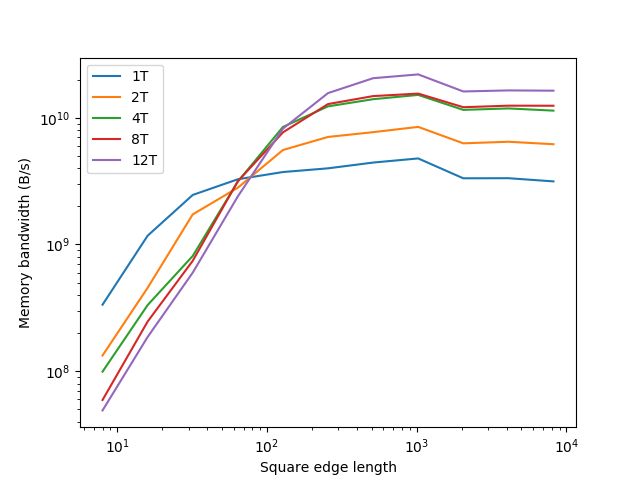
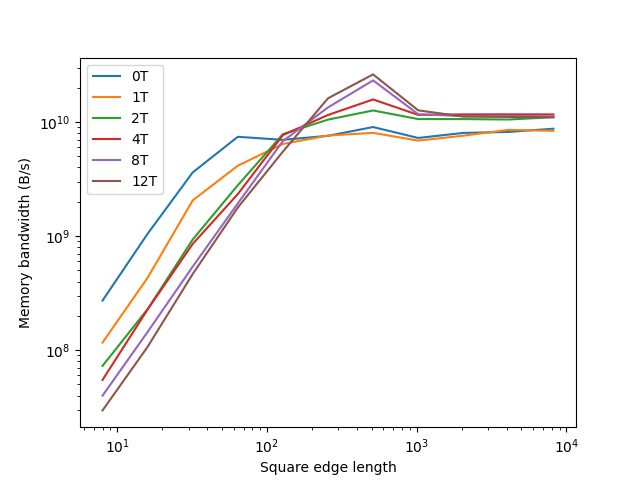
Support also checking the single thread performance

diff --git a/deqn/src/ExplicitSchemeSingleThread.C b/deqn/src/ExplicitSchemeSingleThread.C
@@ -1,0 +1,148 @@
+#include "ExplicitSchemeSingleThread.h"
+
+#include <iostream>
+#include <omp.h>
+
+#define POLY2(i, j, imin, jmin, ni) (((i) - (imin)) + (((j)-(jmin)) * (ni)))
+
+ExplicitSchemeSingleThread::ExplicitSchemeSingleThread(const InputFile* input, Mesh* m) :
+    mesh(m)
+{
+    int nx = mesh->getNx()[0];
+    int ny = mesh->getNx()[1];
+}
+
+void ExplicitSchemeSingleThread::doAdvance(const double dt)
+{
+    double start = omp_get_wtime();
+    diffuse(dt);
+    double end = omp_get_wtime();
+    printf("diffuse took time %f microseconds\n", (end - start) * 1e6);
+
+    start = omp_get_wtime();
+    reset();
+    end = omp_get_wtime();
+    printf("reset took time %f microseconds\n", (end - start) * 1e6);
+
+    start = omp_get_wtime();
+    updateBoundaries();
+    end = omp_get_wtime();
+    printf("updateBoundaries took time %f microseconds\n", (end - start) * 1e6);
+}
+
+void ExplicitSchemeSingleThread::updateBoundaries()
+{
+    for (int i = 0; i < 4; i++) {
+        reflectBoundaries(i);
+    }
+}
+
+void ExplicitSchemeSingleThread::init()
+{
+    updateBoundaries();
+}
+
+void ExplicitSchemeSingleThread::reset()
+{
+    double* u0 = mesh->getU0();
+    double* u1 = mesh->getU1();
+    int x_min = mesh->getMin()[0];
+    int x_max = mesh->getMax()[0];
+    int y_min = mesh->getMin()[1]; 
+    int y_max = mesh->getMax()[1]; 
+
+    int nx = mesh->getNx()[0]+2;
+
+    for(int k = y_min-1; k <= y_max+1; k++) {
+        for(int j = x_min-1; j <=  x_max+1; j++) {
+            int i = POLY2(j,k,x_min-1,y_min-1,nx);
+            u0[i] = u1[i];
+        }
+    }
+}
+
+void ExplicitSchemeSingleThread::diffuse(double dt)
+{
+    double* u0 = mesh->getU0();
+    double* u1 = mesh->getU1();
+    int x_min = mesh->getMin()[0];
+    int x_max = mesh->getMax()[0];
+    int y_min = mesh->getMin()[1]; 
+    int y_max = mesh->getMax()[1]; 
+    double dx = mesh->getDx()[0];
+    double dy = mesh->getDx()[1];
+
+    int nx = mesh->getNx()[0]+2;
+
+    double rx = dt/(dx*dx);
+    double ry = dt/(dy*dy);
+
+    for(int k=y_min; k <= y_max; k++) {
+        for(int j=x_min; j <= x_max; j++) {
+
+            int n1 = POLY2(j,k,x_min-1,y_min-1,nx);
+            int n2 = POLY2(j-1,k,x_min-1,y_min-1,nx);
+            int n3 = POLY2(j+1,k,x_min-1,y_min-1,nx);
+            int n4 = POLY2(j,k-1,x_min-1,y_min-1,nx);
+            int n5 = POLY2(j,k+1,x_min-1,y_min-1,nx);
+
+            u1[n1] = (1.0-2.0*rx-2.0*ry)*u0[n1] + rx*u0[n2] + rx*u0[n3]
+                + ry*u0[n4] + ry*u0[n5];
+        }
+    }
+}
+
+void ExplicitSchemeSingleThread::reflectBoundaries(int boundary_id)
+{
+    double* u0 = mesh->getU0();
+    int x_min = mesh->getMin()[0];
+    int x_max = mesh->getMax()[0];
+    int y_min = mesh->getMin()[1]; 
+    int y_max = mesh->getMax()[1]; 
+
+    int nx = mesh->getNx()[0]+2;
+
+    switch(boundary_id) {
+        case 0: 
+            /* top */
+            {
+                for(int j = x_min; j <= x_max; j++) {
+                    int n1 = POLY2(j, y_max, x_min-1, y_min-1, nx);
+                    int n2 = POLY2(j, y_max+1, x_min-1, y_min-1, nx);
+
+                    u0[n2] = u0[n1];
+                }
+            } break;
+        case 1:
+            /* right */
+            {
+                for(int k = y_min; k <= y_max; k++) {
+                    int n1 = POLY2(x_max, k, x_min-1, y_min-1, nx);
+                    int n2 = POLY2(x_max+1, k, x_min-1, y_min-1, nx);
+
+                    u0[n2] = u0[n1];
+                }
+            } break;
+        case 2: 
+            /* bottom */
+            {
+                for(int j = x_min; j <= x_max; j++) {
+                    int n1 = POLY2(j, y_min, x_min-1, y_min-1, nx);
+                    int n2 = POLY2(j, y_min-1, x_min-1, y_min-1, nx);
+
+                    u0[n2] = u0[n1];
+                }
+            } break;
+        case 3: 
+            /* left */
+            {
+                for(int k = y_min; k <= y_max; k++) {
+                    int n1 = POLY2(x_min, k, x_min-1, y_min-1, nx);
+                    int n2 = POLY2(x_min-1, k, x_min-1, y_min-1, nx);
+
+                    u0[n2] = u0[n1];
+                }
+            } break;
+        default: std::cerr << "Error in reflectBoundaries(): unknown boundary id (" << boundary_id << ")" << std::endl;
+    }
+}

diff --git a/deqn/analysis.py b/deqn/analysis.py
@@ -102,7 +102,7 @@ def time_against_square_size_by_thread_count():
     deqn_config_filepath = os.path.join("test", "tmp_square_by_threadcount.in")
     
     square_sizes = np.array([2**x for x in range(3, 14)])
-    thread_counts = [1, 2, 4, 8, 12]
+    thread_counts = [0, 1, 2, 4, 8, 12]
     for square_size in square_sizes:
         for thread_count in thread_counts:
             # Generate the config file
@@ -112,9 +112,11 @@ def time_against_square_size_by_thread_count():
             deqn_config_file.ny = square_size
             deqn_config_file.xmax = float(square_size)
             deqn_config_file.ymax = float(square_size)
+            if thread_count == 0:
+                deqn_config_file.scheme = "explicit_single_thread"
             deqn_config_file.save_to_file(deqn_config_filepath)
 
-            df_for_thread_count = run_deqn(os.path.join(os.path.pardir, deqn_config_filepath), {"OMP_NUM_THREADS":str(thread_count)})
+            df_for_thread_count = run_deqn(os.path.join(os.path.pardir, deqn_config_filepath), {"OMP_NUM_THREADS":str(max(1, thread_count))})
             df_for_thread_count["Square Size"] = square_size
             df_for_thread_count["Thread Count"] = thread_count
             df = pd.concat([df, df_for_thread_count], ignore_index = True)
@@ -133,10 +135,10 @@ def time_against_square_size_by_thread_count():
 
     # Speed up graph
     for thread_count in thread_counts:
-        proportional_speedup = np.array(df_by_size[df_by_size["Thread Count"] == 1]["Total"]) / np.array(df_by_size[df_by_size["Thread Count"] == thread_count]["Total"])
+        proportional_speedup = np.array(df_by_size[df_by_size["Thread Count"] == 0]["Total"]) / np.array(df_by_size[df_by_size["Thread Count"] == thread_count]["Total"])
         plt.plot(square_sizes, proportional_speedup, label=f"{thread_count}T")
     plt.xlabel("Square edge length")
-    plt.ylabel("Proportional speedup (vs 1T)")
+    plt.ylabel("Proportional speedup (vs ST)")
     plt.legend()
     plt.xscale('log')
     plt.savefig(f"plots/speed_up_against_square_size_by_thread_count.png")

diff --git a/deqn/src/Diffusion.C b/deqn/src/Diffusion.C
@@ -1,6 +1,7 @@
 #include "Diffusion.h"
 
 #include "ExplicitScheme.h"
+#include "ExplicitSchemeSingleThread.h"
 
 #include <iostream>
 #include <cstdlib>
@@ -13,6 +14,10 @@ Diffusion::Diffusion(const InputFile* input, Mesh* m) :
 
     if(scheme_str.compare("explicit") == 0) {
         scheme = new ExplicitScheme(input, mesh);
+    } else if(scheme_str.compare("explicit_single_thread") == 0) {
+        scheme = new ExplicitSchemeSingleThread(input, mesh);
+    // } else if(scheme_str.compare("explicit") == 0) {
+    //     scheme = new ExplicitSchemeSingleThread(input, mesh);
     } else {
         std::cerr << "Error: unknown scheme \"" << scheme_str << "\"" << std::endl;
         exit(1);

diff --git a/deqn/src/ExplicitSchemeSingleThread.h b/deqn/src/ExplicitSchemeSingleThread.h
@@ -1,0 +1,22 @@
+#ifndef EXPLICIT_SCHEME_SINGLE_THREAD_H_
+#define EXPLICIT_SCHEME_SINGLE_THREAD_H_
+
+#include "Scheme.h"
+#include "InputFile.h"
+
+class ExplicitSchemeSingleThread : public Scheme {
+    private:
+        Mesh* mesh;
+
+        void updateBoundaries();
+        void reset();
+        void diffuse(double dt);
+        void reflectBoundaries(int boundary_id);
+    public:
+        ExplicitSchemeSingleThread(const InputFile* input, Mesh* m);
+
+        void doAdvance(const double dt);
+
+        void init();
+};
+#endif
